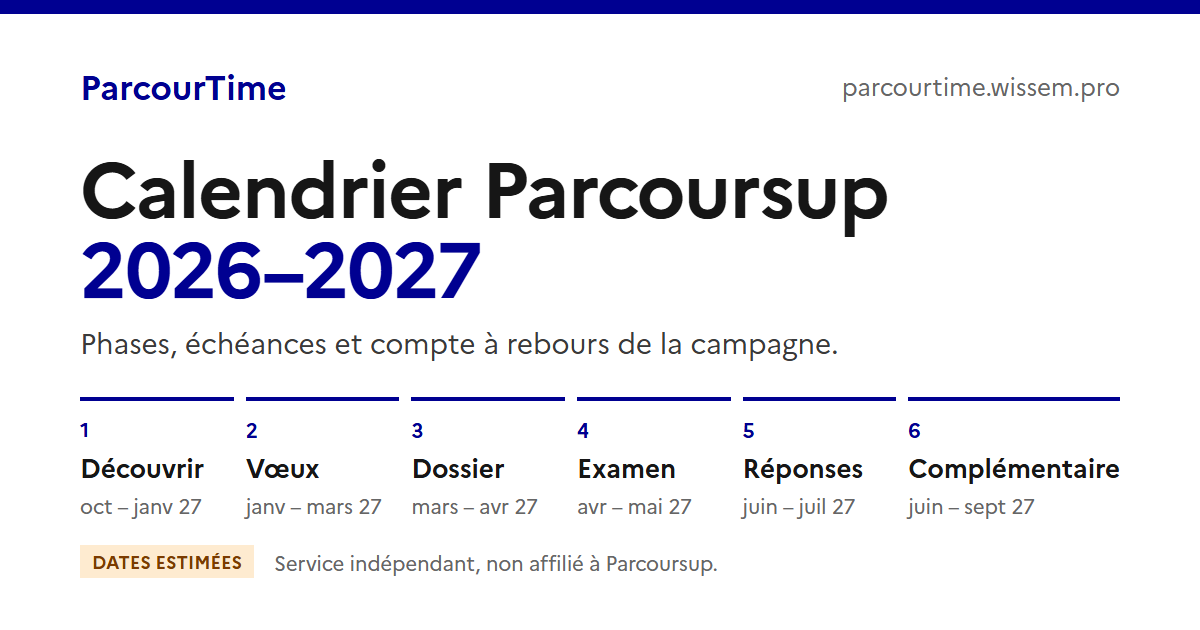
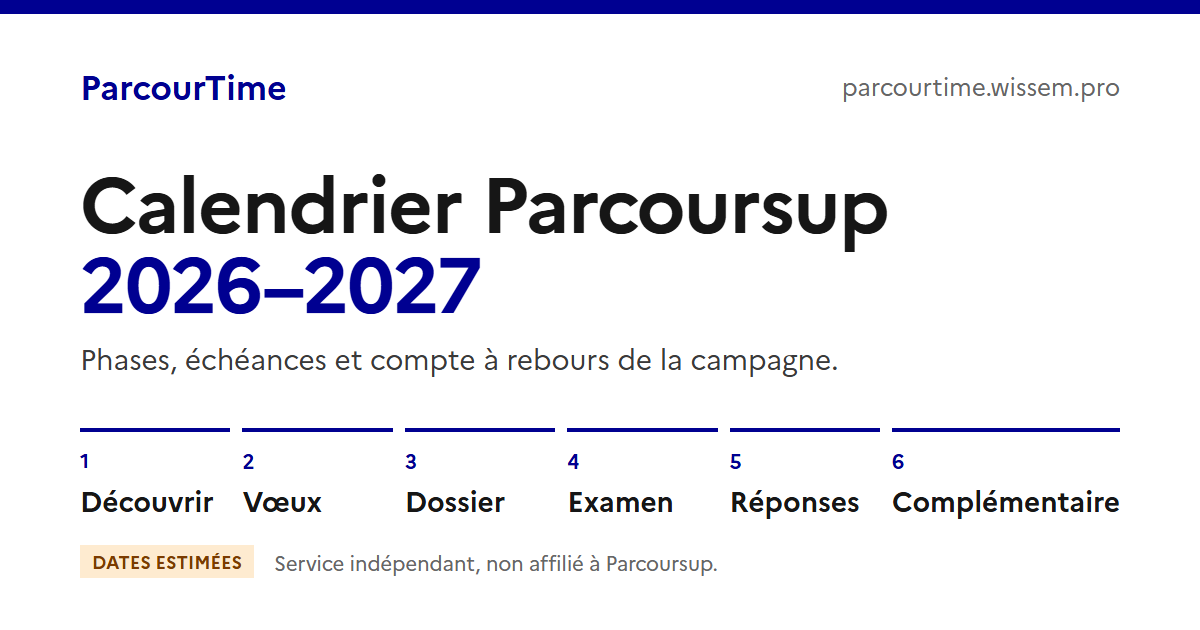
fix: drop the per-phase dates from the sharing image
The card stays readable at thumbnail size; the estimated-dates badge is kept.

Changed region(s): [[0.0617, 0.2413, 0.925, 0.6937], [0.3392, 0.7238, 0.9558, 0.8143], [0.0617, 0.7238, 0.3083, 0.8143]]

diff --git a/scripts/og.ts b/scripts/og.ts
@@ -30,19 +30,6 @@ const campaigns = rawCampaigns as Campaign[]
 const campaign = [...campaigns].sort((a, b) => b.id.localeCompare(a.id))[0] as Campaign
 const estimated = campaign.phases.some((phase) => phase.certainty !== 'official')
 
-const month = new Intl.DateTimeFormat('fr-FR', { month: 'short', timeZone: campaign.timezone })
-const year = new Intl.DateTimeFormat('fr-FR', { year: '2-digit', timeZone: campaign.timezone })
-
-function period(start?: string, end?: string) {
-  if (!start || !end) return ''
-  const from = new Date(start)
-  const to = new Date(end)
-  const first = month.format(from).replace('.', '')
-  const last = month.format(to).replace('.', '')
-  const suffix = `${last} ${year.format(to)}`
-  return first === last ? suffix : `${first} – ${suffix}`
-}
-
 function font(file: string) {
   return pathToFileURL(fileURLToPath(new URL(file, FONTS))).href
 }
@@ -54,7 +41,6 @@ function template() {
       (phase) => `<li>
         <span class="num">${phase.order}</span>
         <span class="name">${SHORT_LABELS[phase.order] ?? phase.title}</span>
-        <span class="when">${period(phase.start, phase.end)}</span>
       </li>`,
     )
     .join('')
@@ -87,8 +73,7 @@ function template() {
   ol { display: flex; gap: 12px; list-style: none; }
   li { flex: 1; display: flex; flex-direction: column; gap: 6px; border-top: 4px solid #000091; padding-top: 14px; }
   .num { font-size: 20px; font-weight: 700; color: #000091; }
-  .name { font-size: 26px; font-weight: 700; }
-  .when { font-size: 20px; color: #666; }
+  .name { font-size: 28px; font-weight: 700; }
   .foot { display: flex; align-items: center; gap: 20px; margin-top: 26px; font-size: 20px; color: #666; }
   .badge { padding: 4px 12px; background: #feebd0; color: #7b3b00; font-size: 18px; font-weight: 700; text-transform: uppercase; }
 </style>
